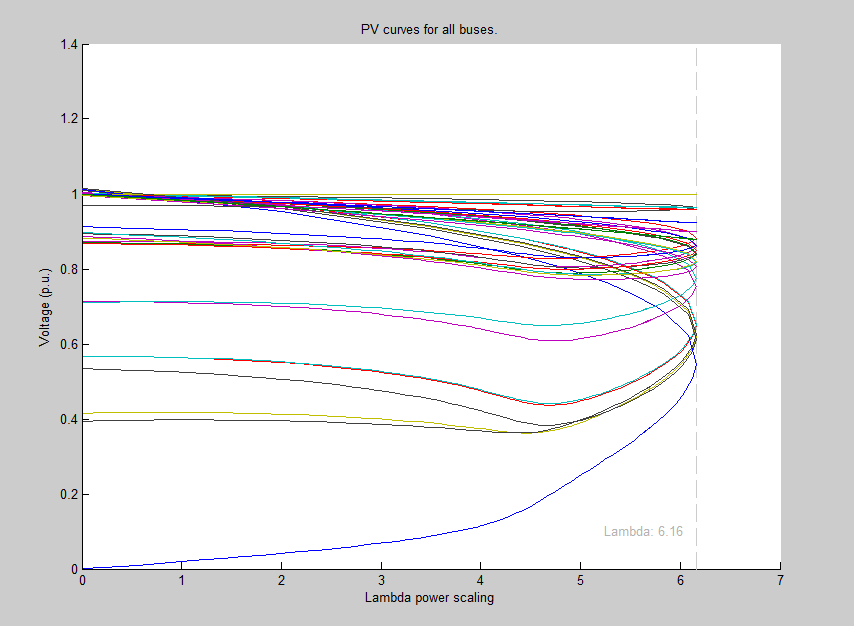
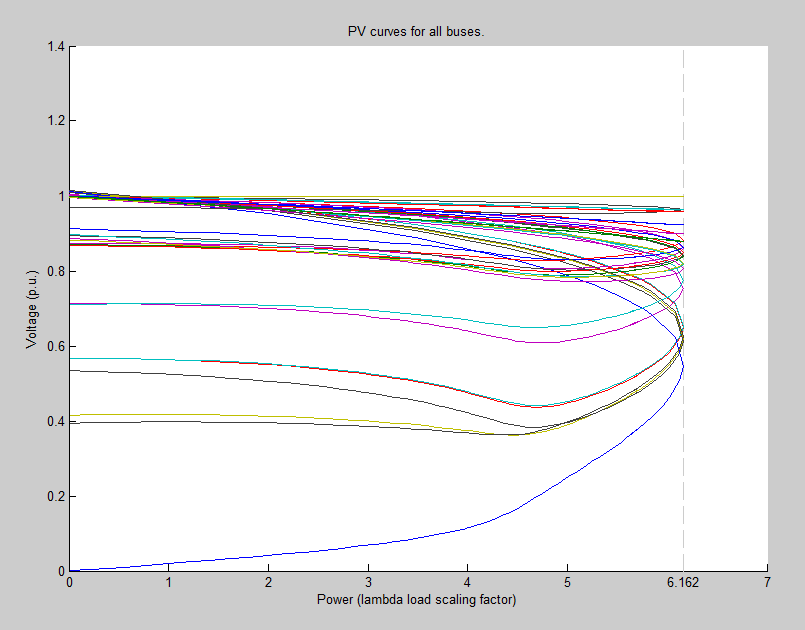
updated images

diff --git a/cpf/cpf.m b/cpf/cpf.m
@@ -581,16 +581,21 @@ if shouldIPlotEverything,
     hold on;      
         plot(lambda_corr, abs(V_corr)); 
         maxL =plot([max_lambda, max_lambda], ylim,'LineStyle', '--','Color',[0.8,0.8,0.8]);  
-        mText = text(max_lambda*0.85, 0.1, sprintf('Lambda: %3.2f',max_lambda), 'Color', [0.7,0.7,0.7]);
+%         mText = text(max_lambda*0.85, 0.1, sprintf('Lambda: %3.2f',max_lambda), 'Color', [0.7,0.7,0.7]);
+        
+        ticks = get(gca, 'XTick');
+        ticks = ticks(abs(ticks - ml) > 0.5);
+        ticks = sort(unique([ticks round(ml*1000)/1000]));
+        set(gca, 'XTick', ticks);
     
         uistack(maxL, 'bottom');    
-        uistack(mText, 'bottom');
+%         uistack(mText, 'bottom');
     hold off;
     
     
     title('PV curves for all buses.');
     ylabel('Voltage (p.u.)')
-    xlabel('Lambda power scaling');
+    xlabel('Power (lambda load scaling factor)');
     
 %     ylims = ylim;
     
@@ -636,39 +641,41 @@ end
         %use backwards order so that earlier points end up on top
         
         %plot phase 3
-        plot(lambda_corr(1+i+j:1+i+j+k), abs(V_corr(bus, 1+i+j:1+i+j+k)), '.-b', 'markers',12); hold on;
+        p3=plot(lambda_corr(1+i+j:1+i+j+k), abs(V_corr(bus, 1+i+j:1+i+j+k)), '.-b', 'markers',12); hold on;
         
         %plot phase 2
-        plot(lambda_corr(1+i:1+i+j), abs(V_corr(bus, 1+i:1+i+j)), '.-g', 'markers', 12);
+        p2=plot(lambda_corr(1+i:1+i+j), abs(V_corr(bus, 1+i:1+i+j)), '.-g', 'markers', 12);
         
         %plot phase 1
-        plot(lambda_corr(1:1+i), abs(V_corr(bus,1:i+1)), '.-b', 'markers', 12);
+        p1=plot(lambda_corr(1:1+i), abs(V_corr(bus,1:i+1)), '.-b', 'markers', 12);
         
         
         %plot initial point
-        plot(lambda_corr(1), abs(V_corr(bus,1)), '.-k', 'markers', 12);
+        st=plot(lambda_corr(1), abs(V_corr(bus,1)), '.-k', 'markers', 12);
              
         if 1+i+j+k < nPoints,
-           plot(lambda_corr(end-1:end), abs(V_corr(bus, end-1:end)),'.-k', 'markers', 12);
+            en=plot(lambda_corr(end-1:end), abs(V_corr(bus, end-1:end)),'.-k', 'markers', 12);
         end
 %         fprintf('Points in 1, Phase 1, Phase 2, Phase 3: %d. Total Points: %d',1+i+j+k, pointCnt)
         
-        scatter(lambda_pr, abs(V_pr(bus,:)),'r'); hold off;
+        pred=scatter(lambda_pr, abs(V_pr(bus,:)),'r'); hold off;
         
         title(sprintf('PV curve for bus %d.', continuationBus));
         ylabel('Voltage (p.u.)')
-        xlabel('Power scaling');
+        xlabel('Power (lambda load scaling factor)');
         ml = max(lambda_corr);
         ylims = ylim;
         
+        ticks = get(gca, 'XTick');
+        ticks = ticks(abs(ticks - ml) > 0.5);
+        ticks = sort(unique([ticks round(ml*1000)/1000]));
+        set(gca, 'XTick', ticks);
         hold on;
             mLine=plot( [ml, ml], ylims, 'LineStyle', '--', 'Color', [0.8,0.8,0.8]);
-            mText=text(ml*.85, ylims(1) + (diff(ylims)) * 0.95, sprintf('Lambda: %3.2f', ml), 'Color', [0.7,0.7,0.7]);
             uistack(mLine, 'bottom');
-            uistack(mText, 'bottom');
         hold off;
-        
-        
+        legend([pred, p1,p2, mLine], {'Predicted Values', 'Lambda Continuation', 'Voltage Continuation', 'Max Lambda'})
+     
     end
 
 

diff --git a/README.md b/README.md
@@ -7,3 +7,14 @@ Changes so far:
 * Extended to scaling of all loads instead of just one load.
 * Implemented Lagrange Polynomial interpolation for prediction step to improve accuracy and speed of predictions.
 * Implemented variable step sizes to improve speed for relatively flat sections.
+
+The CPF algorithm is a method for determining PV curves on a bus; it uses a formulation that allows for the Newton-Raphson power flow algorithm to converge right up to the limit of solvability.
+
+Below is a sample PV curve for a single bus, showing the CPF algorithm.
+
+
+ ![A sample PV curve, showing predictor-corrector steps, for a single bus.](https://github.com/AnjoMan/matpower-cpf-tool/blob/development/single_curve.png "single bus PV curve with details")
+
+
+
+ ![An example of the PV curves for a test system.](https://github.com/AnjoMan/matpower-cpf-tool/blob/development/all_curves.png "Example of all PV curves for a test system")
